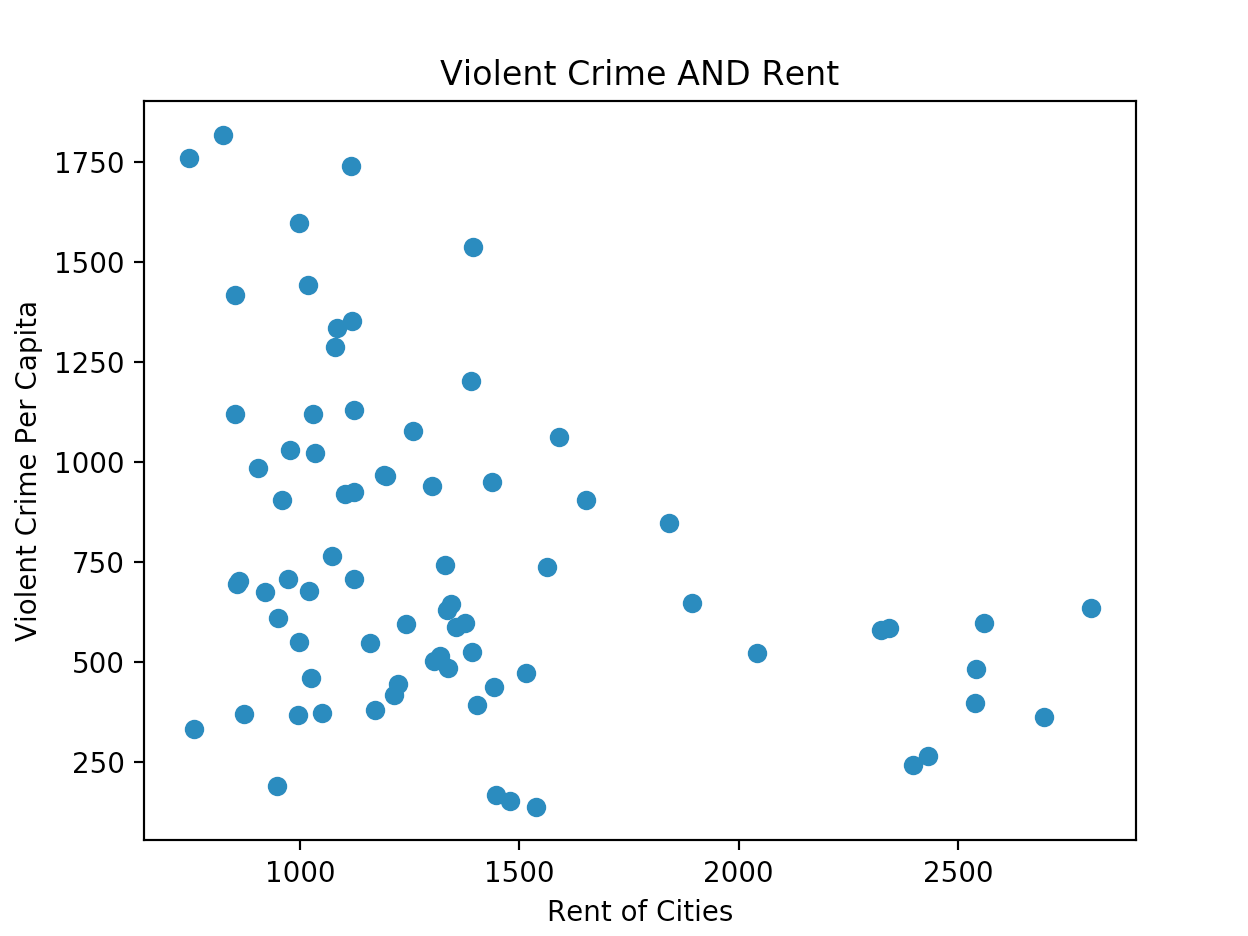
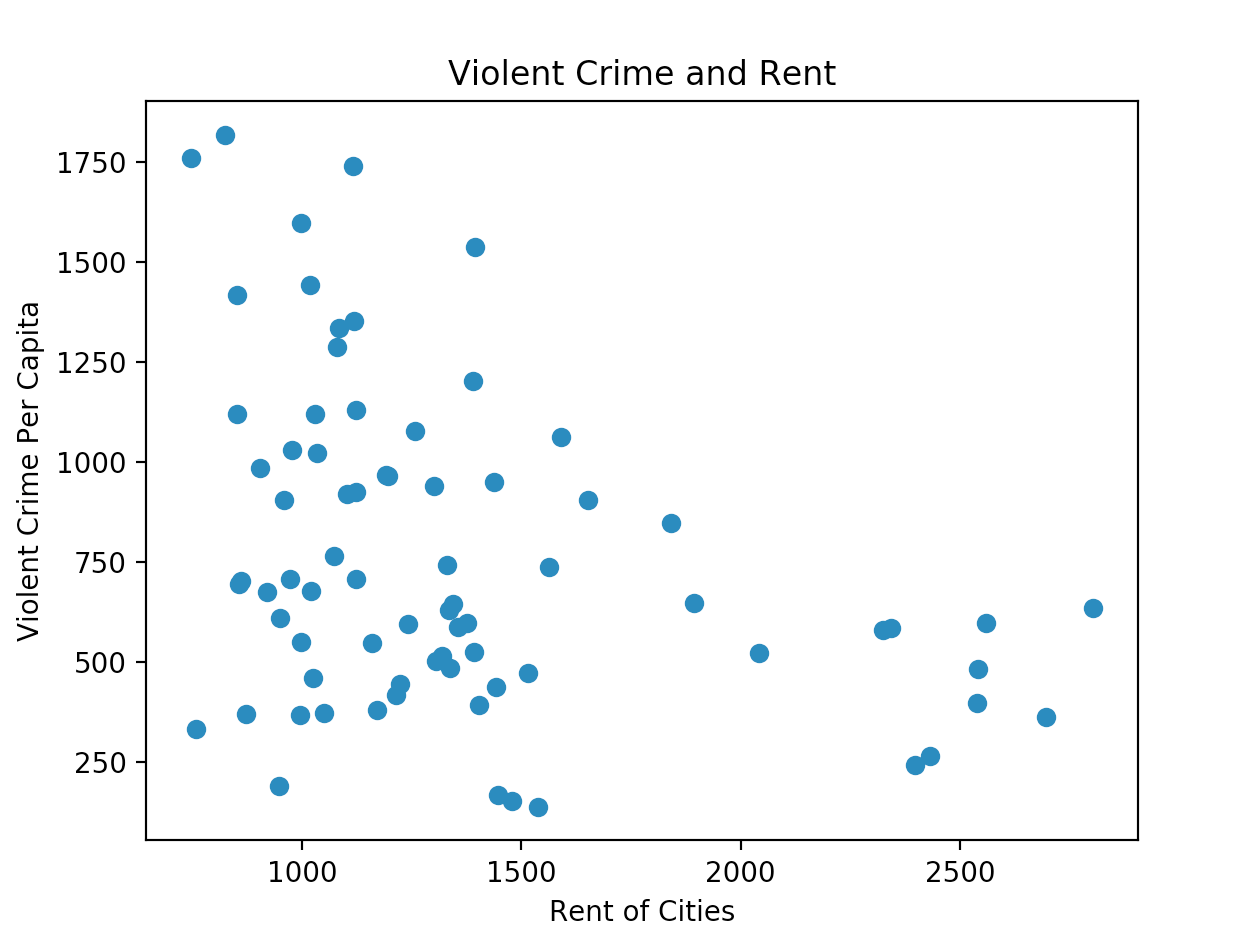
Chaging title of graphs

diff --git a/nationalCityCrime.py b/nationalCityCrime.py
@@ -60,7 +60,7 @@ for city in commonCityList:
 vrGraph = plt.figure(1)
 plt.xlabel("Rent of Cities")
 plt.ylabel("Violent Crime Per Capita")
-plt.title("Violent Crime AND Rent")
+plt.title("Violent Crime and Rent")
 plt.scatter(X, vrY)
 vrGraph.show()
 
@@ -75,7 +75,7 @@ prGraph = plt.figure(2)
 plt.scatter(X, prY)
 plt.xlabel("Rent of Cities")
 plt.ylabel("Property Crime Per Capita")
-plt.title("Property Crime AND Rent")
+plt.title("Property Crime and Rent")
 prGraph.show()
 
 ## Crime and rent graph. 
@@ -90,7 +90,7 @@ crGraph = plt.figure(3)
 plt.scatter(X, crY)
 plt.xlabel("Rent of Cities")
 plt.ylabel("Crime Per Capita")
-plt.title("Crime AND Rent")
+plt.title("Fitting Polynomial for All Crimes and Rent")
 crP1 = np.poly1d(np.polyfit(X, crY, 1))
 crP3 = np.poly1d(np.polyfit(X, crY, 3))
 crP5 = np.poly1d(np.polyfit(X, crY, 5))
